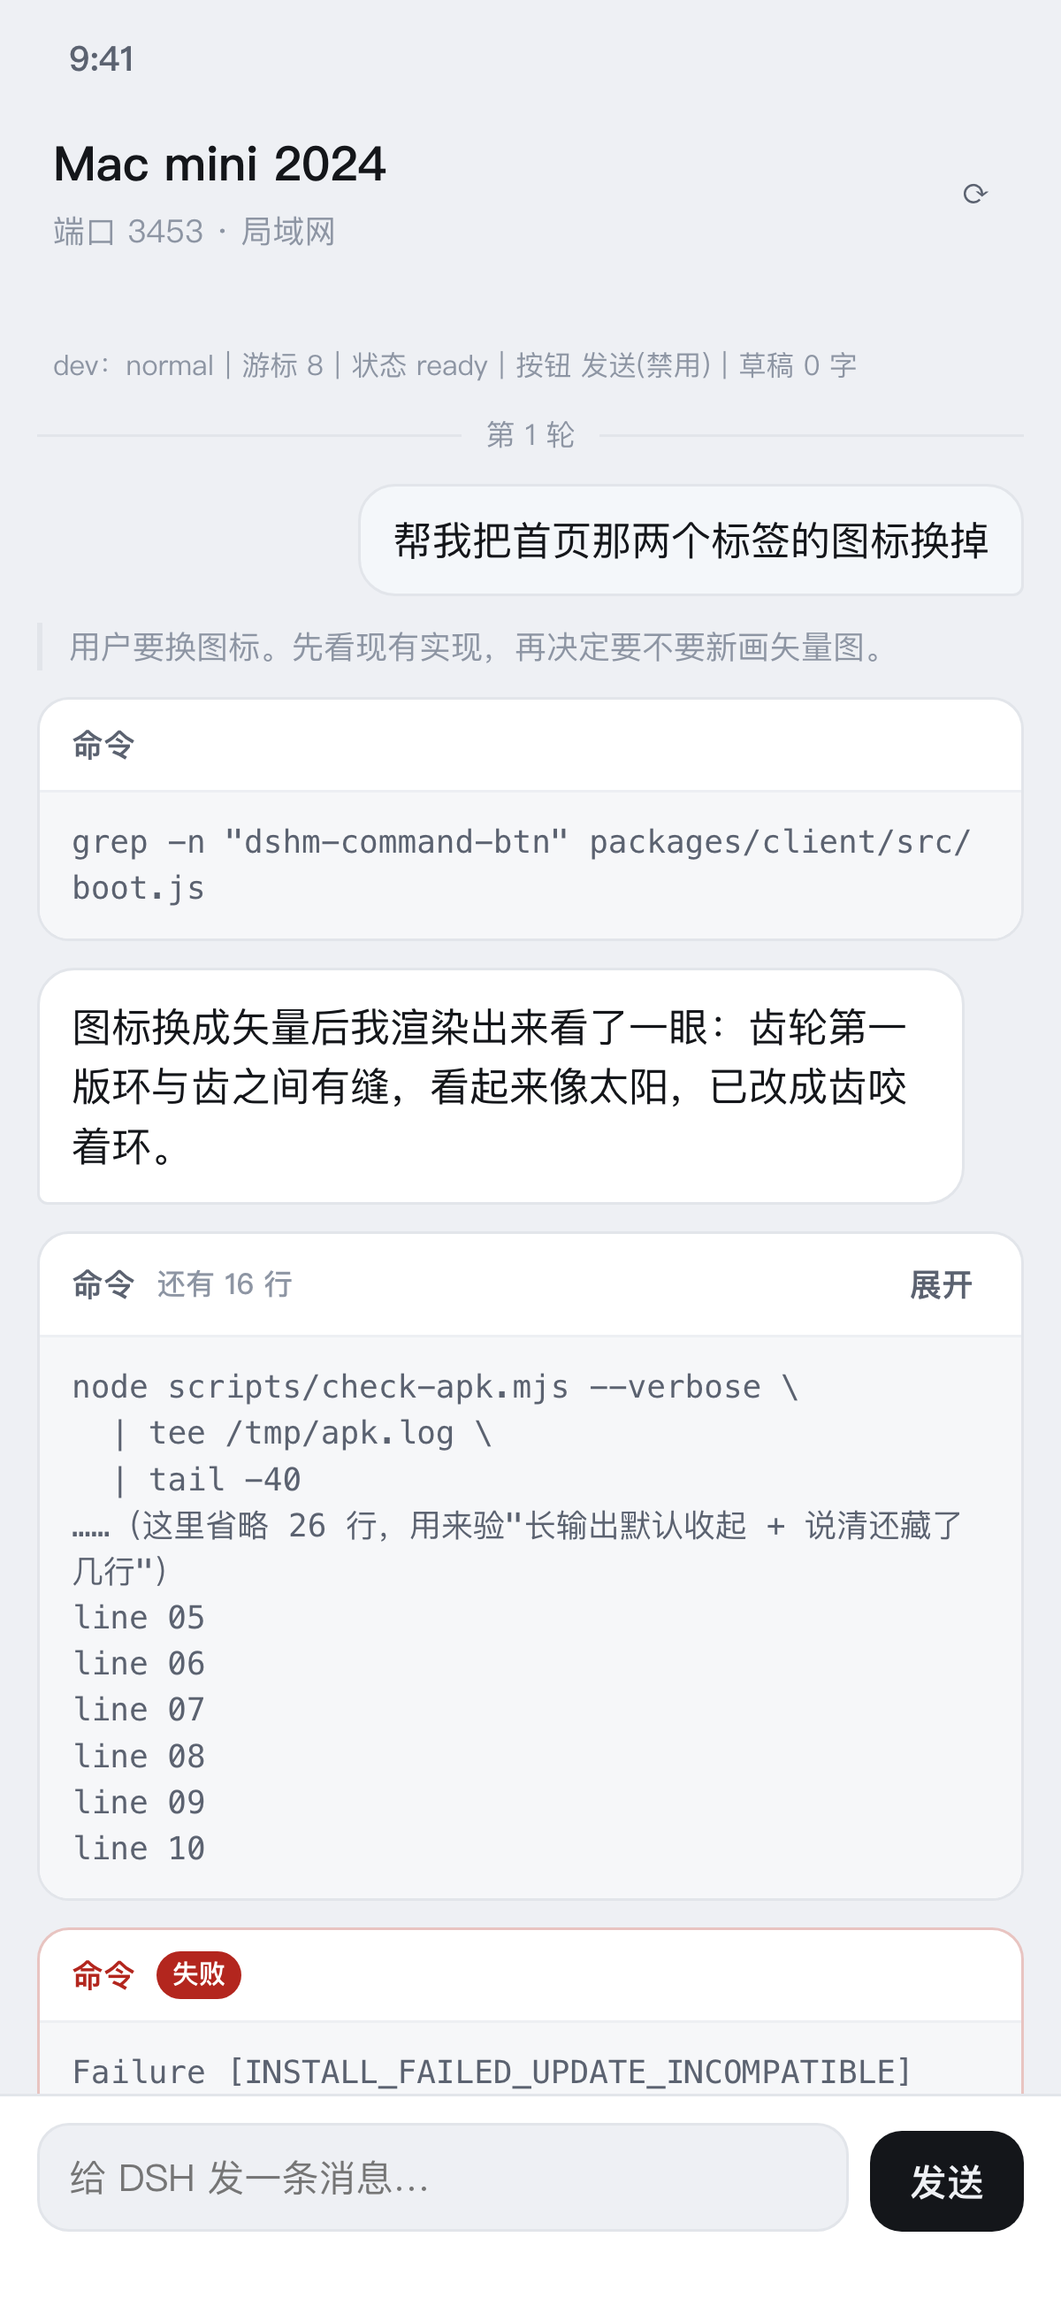
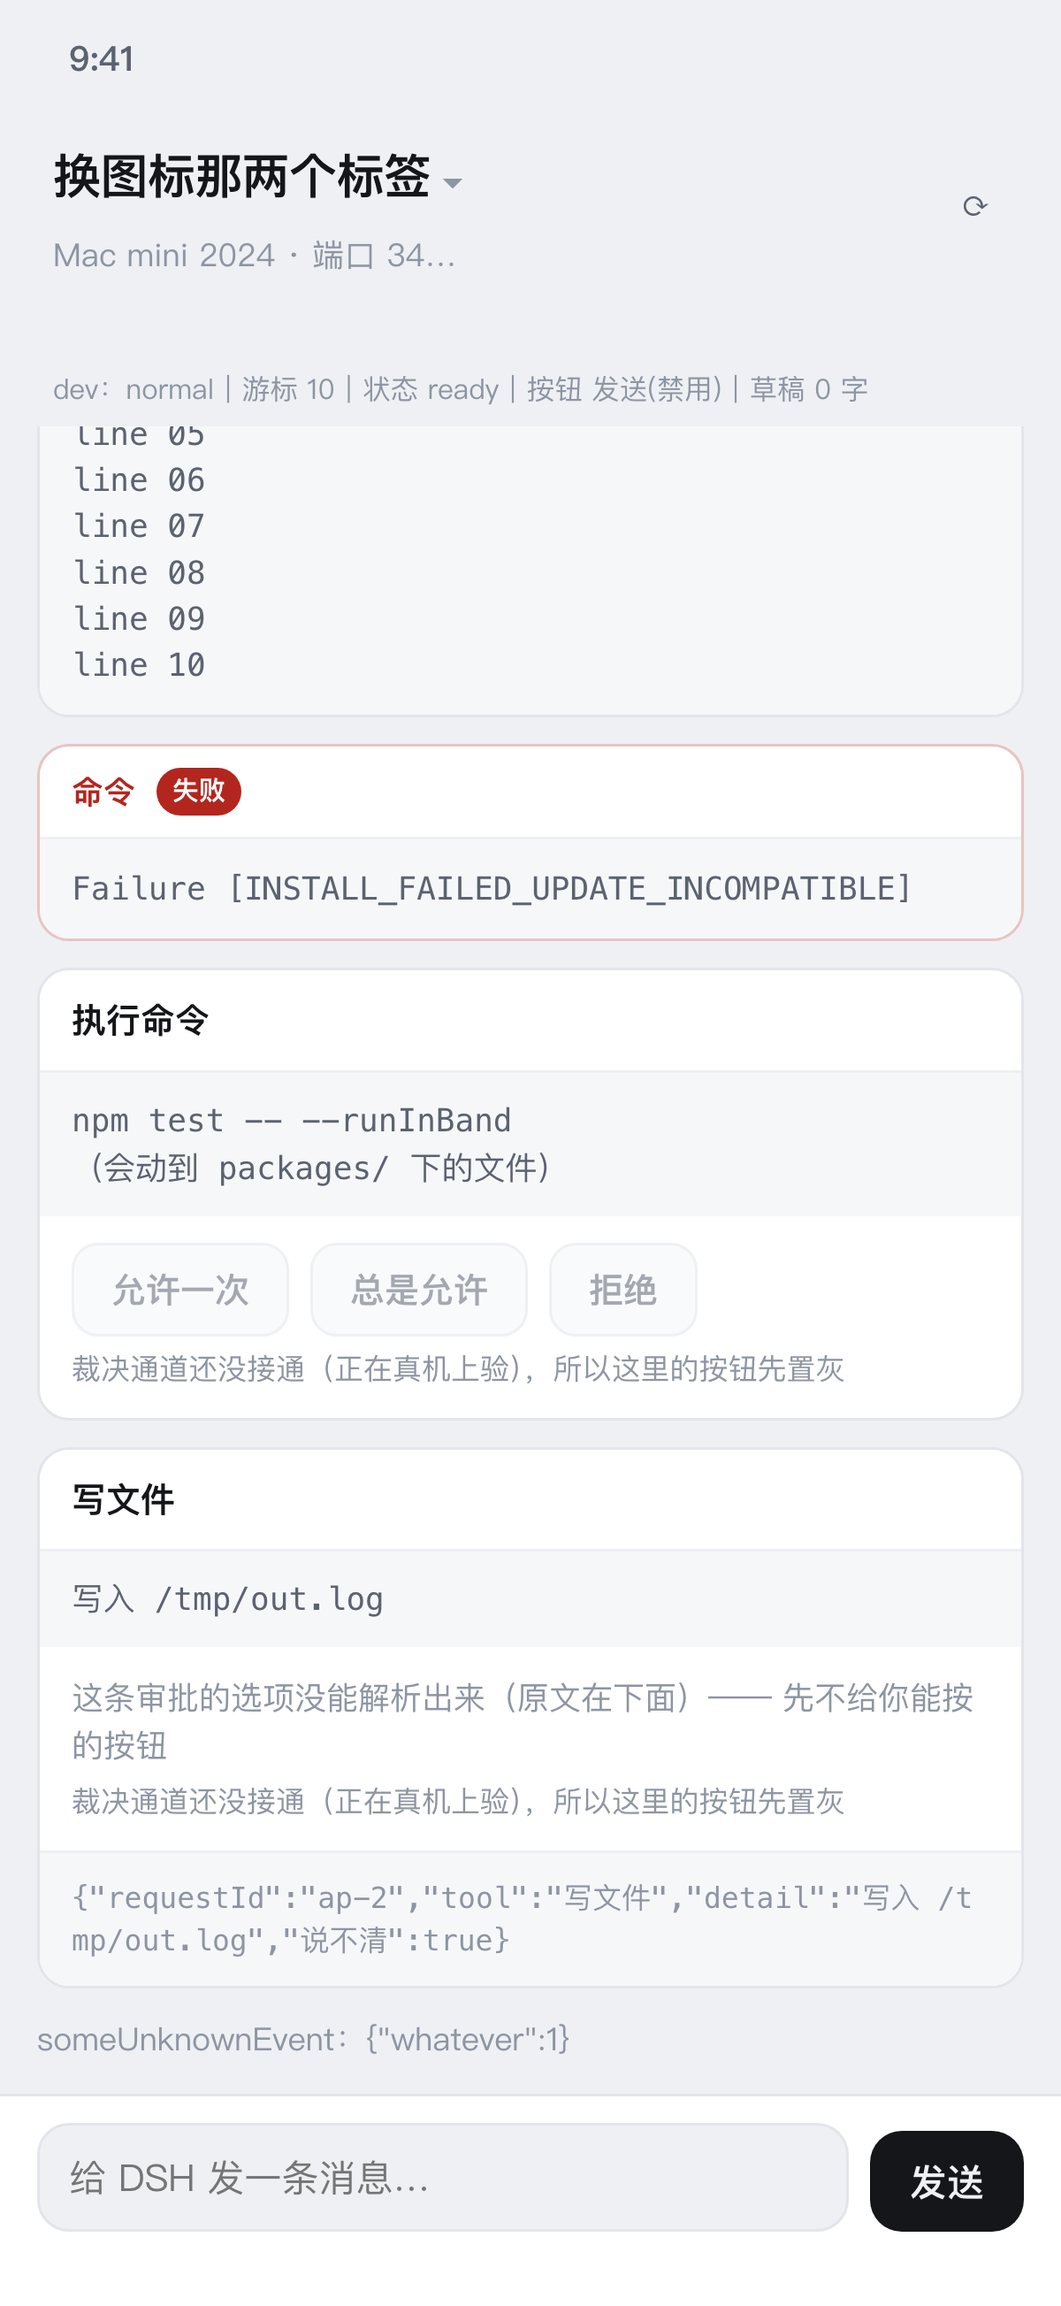
feat(host): 会话页审批卡片（★ 按钮如实置灰）+ 修掉"新消息不进视野"的静默 bug（全量 469 ✓ / 0 ✗）
审批的取证（从当前 0.2.0-rc.2 的包里读出来的，不是猜的）：
· 审批是**会话事件**：approval/asked / approval/decided / approval/policy / permission/preset
  ⇒ 我们的页面**看得到**它 ✓（不用新端点）
· ★ "决策怎么发出去"**仍未证实**：候选是 session/control（★ 实为 mode:"stream"、无参数 ⇒ 是
  服务端→客户端的控制流，不是我以为的一问一答）与 inbox（有 agent/inbox/spliced 事件）
  ⇒ 在验过之前，**绝不接按钮** ✓

· toApprovalViewModel / parseOptions（纯函数）三条自我约束：
  1. ★★ 解析不出选项 ⇒ **一颗按钮都不给** + 原文照摊（`raw`）—— 绝不默认摆「允许/拒绝」：
     把没看懂的审批按下去，可能让智能体做用户没同意的事，比"发错一条消息"严重得多；
  2. 已裁决（有对应 approval/decided）⇒ 只显示结果，不再给按钮；
  3. 认不出的形状 ⇒ 原文照摊，绝不因为看不懂就什么都不显示。
· 卡片：选项按钮一律 `disabled` + 写清原因（"裁决通道还没接通"）—— 本项目的既定纪律：
  **不假装能用**（与首页那两个还没通电的标签同一个处理）

★★ 顺手抓到一个**静默**的真 bug（截图看出来的）：
`appendEvents` 一直在给 `#messages` 设 `scrollTop`，但页面结构早已改成外层 `main` 滚
⇒ 那是一次**静默无效**的赋值 ⇒ 表现是"新消息永远在屏幕外、看着像卡住" ✗。
修：滚**真正的滚动容器**（`closest('main')`）；同时把"该不该跟到底"做成纯函数
`shouldAutoScroll` —— ★ 用户手动往上翻时**不许把他拽回底部**（阈值 80px，量在追加之前）。
新增 16 条断言（审批 12 + 自动跟随 4）。

验证：全量 npm test **469 ✓ / 0 ✗**；ui.js 过 node --check；渲染见 chat-mock-*.png
（两张审批卡片：有选项的置灰、没选项的一颗都不给 + 原文）

diff --git a/packages/host/assets/dsh-chat/ui.js b/packages/host/assets/dsh-chat/ui.js
@@ -93,11 +93,88 @@ export function toViewModel(event) {
   return view
 }
 
+/**
+ * 一条**审批**事件 ⇒ view model ✓（纯函数 ✓）。
+ *
+ * ★★ 三条自我约束（"审批"是**会改变电脑上正在发生的事**的按钮 ✗，比"发送"更该保守 ✓）：
+ *
+ * 1. **解析不出选项 ⇒ 一颗按钮都不给** ✗ —— 页面上写清"选项没解析出来" + 把原文摊开 ✓。
+ *    绝不默认摆一个「允许 / 拒绝」✗：把没看懂的审批按下去，可能会让智能体做用户没同意的事 ✓；
+ * 2. **已经裁决过的**（有对应 `approval/decided` ✓）⇒ 只显示结果，**不再给按钮** ✗；
+ * 3. 认不出的形状 ⇒ **原文照摊** ✓（`raw` ✓）—— 绝不因为"看不懂"就什么都不显示 ✗。
+ *
+ * @param {object} event 事件本身（`{seq,time,type,data}` ✓）
+ * @param {object|null} decided 已经收到的裁决（同一条请求的 `approval/decided` ✓），没有就 null ✓
+ */
+export function toApprovalViewModel(event, decided) {
+  const data = event !== null && typeof event === 'object' && event.data !== null && typeof event.data === 'object' ? event.data : {}
+  const text = textOf(event)
+  const requestId = firstString(data, ['requestId', 'request_id', 'id', 'approvalId'])
+  const title = firstString(data, ['title', 'tool', 'toolName', 'name', 'command']) || '需要你确认'
+  const detail = firstString(data, ['detail', 'description', 'message', 'reason', 'prompt']) || text
+  const options = parseOptions(data)
+  const decision = decided !== null && decided !== undefined
+    ? firstString(decided.data !== null && typeof decided.data === 'object' ? decided.data : {}, ['decision', 'option', 'choice', 'result', 'answer']) || '已处理'
+    : ''
+  return {
+    kind: 'approval',
+    requestId,
+    title,
+    detail,
+    options,
+    decided: decision.length > 0,
+    decision,
+    raw: options.length > 0 ? '' : safeJson(data),
+  }
+}
+
+/** 选项：`options` / `choices` / `actions` 里挑一个数组 ✓；元素可以是字符串或 `{id,label}` ✓。 */
+export function parseOptions(data) {
+  if (data === null || typeof data !== 'object') return []
+  for (const key of ['options', 'choices', 'actions', 'buttons']) {
+    const value = data[key]
+    if (!Array.isArray(value)) continue
+    const out = []
+    for (const item of value) {
+      if (typeof item === 'string' && item.length > 0) {
+        out.push({ id: item, label: item })
+        continue
+      }
+      if (item !== null && typeof item === 'object') {
+        const id = firstString(item, ['id', 'value', 'key', 'action'])
+        const label = firstString(item, ['label', 'title', 'text', 'name']) || id
+        if (id.length > 0) out.push({ id, label: label.length > 0 ? label : id, kind: firstString(item, ['kind', 'tone', 'style']) })
+      }
+    }
+    if (out.length > 0) return out
+  }
+  return []
+}
+
+function firstString(source, keys) {
+  if (source === null || typeof source !== 'object') return ''
+  for (const key of keys) {
+    const value = source[key]
+    if (typeof value === 'string' && value.length > 0) return value
+  }
+  return ''
+}
+
+function safeJson(value) {
+  try {
+    return JSON.stringify(value)
+  } catch (error) {
+    return ''
+  }
+}
+
 /** 事件的"种类"⇒ 画法。认不出的一律走 `other`（**仍然画** ✓）。 */
 export function classify(type) {
   const text = typeof type === 'string' ? type.toLowerCase() : ''
   if (text.includes('usermessage') || text.includes('user/') || text.includes('prompt')) return 'user'
   if (text.includes('agentmessage') || text.includes('assistant') || text.includes('message')) return 'agent'
+  // ★ 审批要**排在工具之前**判 ✓ —— `approval/asked` 里没有 tool 字样，但审批常被包在工具事件里 ✓
+  if (text.includes('approval') || text.includes('permission')) return 'approval'
   if (text.includes('reasoning') || text.includes('thinking')) return 'reasoning'
   if (text.includes('command') || text.includes('tool') || text.includes('exec')) return 'tool'
   if (text.includes('error') || text.includes('failed')) return 'error'
@@ -139,11 +216,26 @@ export function textOf(event) {
  */
 export function appendEvents(container, events) {
   if (container === null || container === undefined) return
+  /**
+   * ★ 要滚的是**真正的滚动容器** ✗，不是消息列表本身 ✓ ——
+   *   页面结构改成"外层 `main` 滚、里面 `#messages` 只排"之后 ✓，
+   *   再给 `#messages` 设 `scrollTop` 就是一个**静默无效**的赋值 ✓
+   *   ⇒ 表现是"新消息永远在屏幕外、看着像卡住" ✓（本轮截图抓到的就是这个 ✓）。
+   *   若 DOM 结构改回列表自己滚，这里**也**还能对（取到的就是它自己 ✓）。
+   */
+  const scroller = typeof container.closest === 'function'
+    ? (container.closest('main') || container.parentElement || container)
+    : (container.parentElement || container)
+  const follow = shouldAutoScroll(
+    { scrollTop: scroller.scrollTop, scrollHeight: scroller.scrollHeight, clientHeight: scroller.clientHeight },
+    80,
+  )
   for (const event of Array.isArray(events) ? events : []) {
     const node = renderEvent(event)
     if (node !== null) container.appendChild(node)
   }
-  if (container.scrollHeight !== undefined) container.scrollTop = container.scrollHeight
+  // ★ 用户手动往上翻的时候**不许把他拽回去** ✗（`follow` 是在追加之前量的 ✓）
+  if (follow && typeof scroller.scrollTop === 'number') scroller.scrollTop = scroller.scrollHeight
 }
 
 /** 一条事件 ⇒ 一个节点 ✓（`null` = 真的没什么可画的 ✓）。 */
@@ -174,6 +266,11 @@ export function renderEvent(event) {
     return wrapper
   }
 
+  if (view.kind === 'approval') {
+    wrapper.appendChild(approvalCard(toApprovalViewModel(event, null)))
+    return wrapper
+  }
+
   if (view.kind === 'step') {
     // ★ 一轮的开始不该是"孤零零一个词" ✓ —— 做成一条带小标签的分隔线 ✓
     //   （`turn/start` 的 data 里带轮号时写"第 N 轮"✓，没有就写事件名 ✓ —— 不编 ✗）
@@ -194,6 +291,67 @@ export function renderEvent(event) {
   fallback.textContent = view.title + (view.text.length > 0 ? '：' + view.text.slice(0, 200) : '')
   wrapper.appendChild(fallback)
   return wrapper
+}
+
+/**
+ * 审批卡片 ✓。
+ *
+ * ★ 按钮**一律置灰**（`disabled` ✓）并且写清原因 ✓ —— 这是本项目的既定纪律：
+ *   **不假装能用** ✗（与首页那两个还没通电的标签同一个处理 ✓）。
+ *   为什么：按下去会**改变电脑上正在发生的事** ✓，而"决策走哪条通道"还没在真机上验过 ✗
+ *   （见 `37-会话页数据面探针.md` §十四 ✓）。等验过再把 `disabled` 摘掉 ✓。
+ */
+function approvalCard(view) {
+  const card = document.createElement('div')
+  card.className = 'approval' + (view.decided ? ' approval-decided' : '')
+
+  const head = document.createElement('div')
+  head.className = 'approval-head'
+  const title = document.createElement('div')
+  title.className = 'approval-title'
+  title.textContent = view.decided ? '已处理：' + view.decision : view.title
+  head.appendChild(title)
+  card.appendChild(head)
+
+  if (view.detail.length > 0) {
+    const detail = document.createElement('pre')
+    detail.className = 'approval-detail'
+    detail.textContent = view.detail
+    card.appendChild(detail)
+  }
+
+  if (!view.decided) {
+    const actions = document.createElement('div')
+    actions.className = 'approval-actions'
+    if (view.options.length > 0) {
+      for (const option of view.options) {
+        const button = document.createElement('button')
+        button.type = 'button'
+        button.className = 'approval-option'
+        button.textContent = option.label
+        button.disabled = true
+        actions.appendChild(button)
+      }
+    } else {
+      const note = document.createElement('div')
+      note.className = 'dim small'
+      note.textContent = '这条审批的选项没能解析出来（原文在下面）—— 先不给你能按的按钮'
+      actions.appendChild(note)
+    }
+    card.appendChild(actions)
+    const why = document.createElement('div')
+    why.className = 'approval-why'
+    why.textContent = '裁决通道还没接通（正在真机上验），所以这里的按钮先置灰'
+    card.appendChild(why)
+  }
+
+  if (view.raw.length > 0) {
+    const raw = document.createElement('pre')
+    raw.className = 'approval-raw'
+    raw.textContent = view.raw
+    card.appendChild(raw)
+  }
+  return card
 }
 
 /**
@@ -250,6 +408,27 @@ function toolCard(view) {
   card.appendChild(head)
   card.appendChild(body)
   return card
+}
+
+/**
+ * 新内容到达时，**要不要自动跟到底部** ✓（纯函数 ✓）。
+ *
+ * 两条都别做错 ✗：
+ * · 不该跟的时候跟了 ⇒ 用户正翻上面的历史，被**一把拽回底部** ✓（很气人 ✓）；
+ * · 该跟的时候没跟 ⇒ 新消息在屏幕外 ✓，用户以为"卡住了" ✓
+ *   （这正是本轮截图暴露的那个 bug：滚动容器改了，`scrollTop` 还设在旧元素上 ✗）。
+ *
+ * @param {{scrollTop:number, scrollHeight:number, clientHeight:number}} metrics 追加**之前**量 ✓
+ * @param {number} nearBottomPx 离底部多近算"还在跟" ✓（默认 80）
+ */
+export function shouldAutoScroll(metrics, nearBottomPx) {
+  const threshold = typeof nearBottomPx === 'number' && nearBottomPx >= 0 ? nearBottomPx : 80
+  if (metrics === null || typeof metrics !== 'object') return true
+  const top = typeof metrics.scrollTop === 'number' ? metrics.scrollTop : 0
+  const height = typeof metrics.scrollHeight === 'number' ? metrics.scrollHeight : 0
+  const client = typeof metrics.clientHeight === 'number' ? metrics.clientHeight : 0
+  if (height <= 0 || client <= 0) return true // 量不出来 ⇒ 当作"在跟" ✓（宁可跟到底 ✓）
+  return height - top - client <= threshold
 }
 
 /**

diff --git a/packages/host/test/dsh-chat-viewmodel.test.ts b/packages/host/test/dsh-chat-viewmodel.test.ts
@@ -16,8 +16,11 @@ import {
   filterSessions,
   getDraft,
   putDraft,
+  parseOptions,
   resolveDelivery,
+  shouldAutoScroll,
   sortSessions,
+  toApprovalViewModel,
   isFailure,
   sendBegin,
   sendFailureHint,
@@ -391,5 +394,83 @@ describe('★ 草稿柜：按会话分开存（切走再切回来，字还在）
     assert.equal(getDraft(null, 's-1'), '')
     assert.equal(getDraft({ 's-1': 42 }, 's-1'), '')
     assert.deepEqual(putDraft({}, '', '甲'), {})
+  })
+})
+
+
+describe('审批：★★ 会改变电脑上正在发生的事，所以比"发送"更保守', () => {
+  it('审批事件被认成一类（排在工具之前判）', () => {
+    assert.equal(classify('approval/asked'), 'approval')
+    assert.equal(classify('permission/request'), 'approval')
+  })
+
+  it('选项从 options / choices / actions 里认，字符串与 {id,label} 都行', () => {
+    assert.deepEqual(parseOptions({ options: [{ id: 'a', label: '允许一次' }, { id: 'b' }] }), [
+      { id: 'a', label: '允许一次', kind: '' },
+      { id: 'b', label: 'b', kind: '' },
+    ])
+    assert.deepEqual(parseOptions({ choices: ['允许', '拒绝'] }), [
+      { id: '允许', label: '允许' },
+      { id: '拒绝', label: '拒绝' },
+    ])
+    assert.equal(parseOptions({ actions: [{ value: 'deny', text: '拒绝' }] })[0].id, 'deny')
+    assert.deepEqual(parseOptions({}), [])
+    assert.deepEqual(parseOptions(null), [])
+  })
+
+  it('★ 解析不出选项 ⇒ **一颗按钮都不给** + 原文照摊（绝不默认摆"允许/拒绝"）', () => {
+    const view = toApprovalViewModel({ seq: 1, type: 'approval/asked', data: { requestId: 'ap-2', tool: '写文件', 说不清: true } }, null)
+    assert.equal(view.options.length, 0)
+    assert.ok(view.raw.length > 0)
+    assert.ok(view.raw.includes('说不清'))
+  })
+
+  it('有选项 ⇒ 正常解析出 id 与 label，且 raw 不再需要', () => {
+    const view = toApprovalViewModel(
+      { seq: 1, type: 'approval/asked', data: { requestId: 'ap-1', tool: '执行命令', detail: 'npm test', options: [{ id: 'allow', label: '允许一次' }] } },
+      null,
+    )
+    assert.equal(view.requestId, 'ap-1')
+    assert.equal(view.title, '执行命令')
+    assert.equal(view.detail, 'npm test')
+    assert.equal(view.options.length, 1)
+    assert.equal(view.raw, '')
+    assert.equal(view.decided, false)
+  })
+
+  it('★ 已经裁决过 ⇒ 只显示结果，**不再给按钮**', () => {
+    const decided = { seq: 2, type: 'approval/decided', data: { requestId: 'ap-1', decision: 'allow' } }
+    const view = toApprovalViewModel({ seq: 1, type: 'approval/asked', data: { requestId: 'ap-1' } }, decided)
+    assert.equal(view.decided, true)
+    assert.equal(view.decision, 'allow')
+  })
+
+  it('坏输入不抛（null / 没 data / 没 requestId）', () => {
+    const view = toApprovalViewModel(null, null)
+    assert.equal(view.requestId, '')
+    assert.equal(view.options.length, 0)
+    assert.equal(view.decided, false)
+    assert.ok(view.title.length > 0)
+  })
+})
+
+describe('★ 自动跟随：该跟的跟、不该跟的别拽人', () => {
+  it('本来就在底部 ⇒ 跟', () => {
+    assert.equal(shouldAutoScroll({ scrollTop: 900, scrollHeight: 1000, clientHeight: 100 }), true)
+  })
+
+  it('★ 用户手动往上翻了 ⇒ **不跟**（不许把他一把拽回底部）', () => {
+    assert.equal(shouldAutoScroll({ scrollTop: 100, scrollHeight: 1000, clientHeight: 100 }), false)
+  })
+
+  it('阈值附近：80px 以内算"还在跟"', () => {
+    assert.equal(shouldAutoScroll({ scrollTop: 820, scrollHeight: 1000, clientHeight: 100 }, 80), true)
+    assert.equal(shouldAutoScroll({ scrollTop: 819, scrollHeight: 1000, clientHeight: 100 }, 80), false)
+  })
+
+  it('量不出来（高度 0 / 坏输入）⇒ 当作在跟（宁可跟到底）', () => {
+    assert.equal(shouldAutoScroll({ scrollTop: 0, scrollHeight: 0, clientHeight: 0 }), true)
+    assert.equal(shouldAutoScroll(null), true)
+    assert.equal(shouldAutoScroll({}), true)
   })
 })

diff --git a/packages/host/assets/dsh-chat/theme.css b/packages/host/assets/dsh-chat/theme.css
@@ -101,3 +101,16 @@
     background: var(--rail); color: var(--bg); font: inherit; font-size: 14px; font-weight: 600;
   }
   .homebar { height: 22px; flex: none; background: var(--surface); }
+
+/* ── 审批卡片 ✓（按钮一律置灰 —— 裁决通道还没接通，不假装能用 ✗）── */
+.approval { background: var(--surface); border: 1px solid var(--line); border-radius: 12px; overflow: hidden; }
+.approval-decided { opacity: .72; }
+.approval .approval-head { padding: 9px 12px; border-bottom: 1px solid var(--line-soft); }
+.approval .approval-title { font-size: 13px; font-weight: 650; color: var(--ink); }
+.approval-decided .approval-title { color: var(--ink2); }
+.approval .approval-detail { margin: 0; padding: 9px 12px; background: var(--code-bg); font-size: 12px; line-height: 1.5; color: var(--ink2); white-space: pre-wrap; word-break: break-word; }
+.approval .approval-actions { display: flex; flex-wrap: wrap; gap: 8px; padding: 10px 12px 4px; }
+.approval .approval-option { border: 1px solid var(--line); background: var(--tint); color: var(--ink2); font: inherit; font-size: 13px; font-weight: 600; padding: 7px 14px; border-radius: 10px; }
+.approval .approval-option[disabled] { opacity: .55; }
+.approval .approval-why { padding: 0 12px 10px; font-size: 11px; color: var(--ink3); }
+.approval .approval-raw { margin: 0; padding: 9px 12px; background: var(--code-bg); border-top: 1px solid var(--line-soft); font-size: 11px; line-height: 1.45; color: var(--ink3); white-space: pre-wrap; word-break: break-all; }

diff --git a/packages/host/assets/dsh-chat/dev.html b/packages/host/assets/dsh-chat/dev.html
@@ -75,7 +75,9 @@
         'line 23', 'line 24', 'line 25', 'line 26',
       ].join('\n'), exitCode: 0 } },
     { seq: 7, time: 7, type: 'commandExecution', data: { command: 'adb install -r dist/dsh-mobile.apk', exitCode: 1, output: 'Failure [INSTALL_FAILED_UPDATE_INCOMPATIBLE]' } },
-    { seq: 8, time: 8, type: 'someUnknownEvent', data: { whatever: 1 } },
+    { seq: 8, time: 8, type: 'approval/asked', data: { requestId: 'ap-1', tool: '执行命令', detail: 'npm test -- --runInBand\n（会动到 packages/ 下的文件）', options: [{ id: 'allow', label: '允许一次' }, { id: 'allow-always', label: '总是允许' }, { id: 'deny', label: '拒绝' }] } },
+    { seq: 9, time: 9, type: 'approval/asked', data: { requestId: 'ap-2', tool: '写文件', detail: '写入 /tmp/out.log', 说不清: true } },
+    { seq: 10, time: 10, type: 'someUnknownEvent', data: { whatever: 1 } },
   ]
 
   // ★ 开发壳专有：把页面里的 JS 错误**抓下来画在屏幕上** ✓
